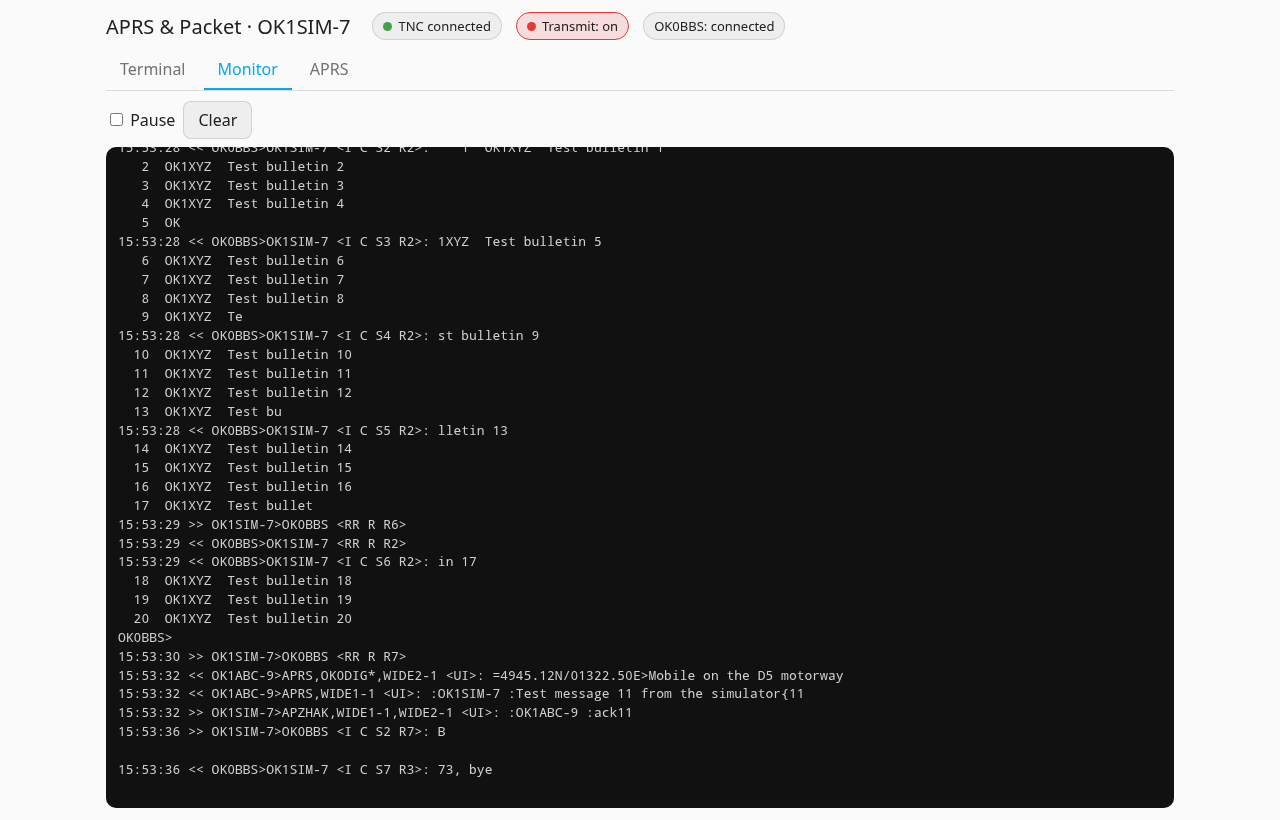
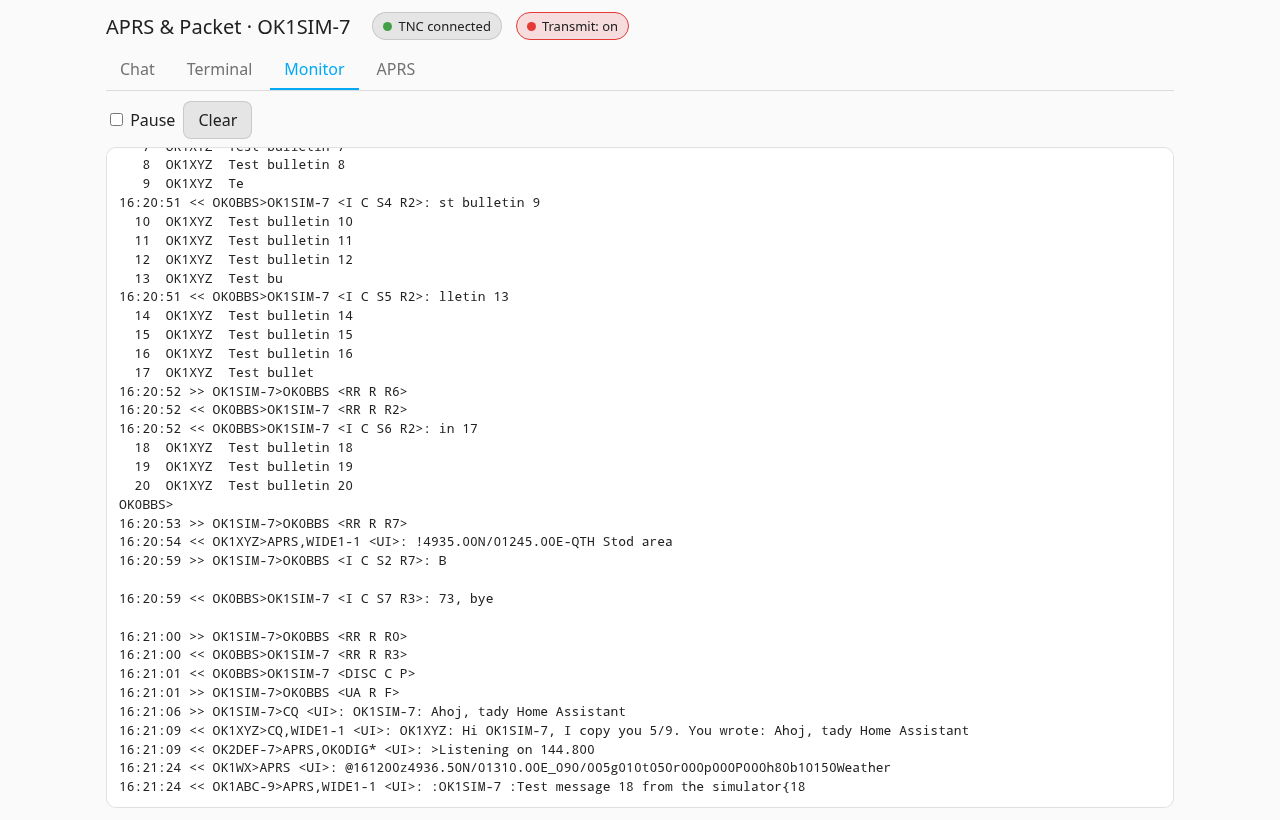
Release 0.2.1: panel follows the Home Assistant theme; new light and dark screenshots

diff --git a/custom_components/aprs_kiss/frontend/aprs-kiss-panel.js b/custom_components/aprs_kiss/frontend/aprs-kiss-panel.js
@@ -168,7 +168,7 @@ class AprsKissPanel extends HTMLElement {
         button.btn { font: inherit; padding: 7px 14px; border-radius: 8px; border: none; background: var(--primary-color); color: var(--text-primary-color, #fff); cursor: pointer; }
         button.btn.secondary { background: var(--secondary-background-color); color: var(--primary-text-color); border: 1px solid var(--divider-color); }
         button.btn:disabled { opacity: 0.5; cursor: default; }
-        pre { flex: 1; min-height: 200px; margin: 0; overflow: auto; padding: 10px 12px; border-radius: 10px; background: #111; color: #d0d0d0; font: 13px/1.45 ui-monospace, 'DejaVu Sans Mono', Menlo, Consolas, monospace; white-space: pre-wrap; word-break: break-word; }
+        pre { flex: 1; min-height: 200px; margin: 0; overflow: auto; padding: 10px 12px; border-radius: 10px; background: var(--code-editor-background-color, var(--card-background-color)); color: var(--primary-text-color); border: 1px solid var(--divider-color); font: 13px/1.45 ui-monospace, 'DejaVu Sans Mono', Menlo, Consolas, monospace; white-space: pre-wrap; word-break: break-word; }
         .chatlog { flex: 1; min-height: 200px; overflow: auto; padding: 8px 10px; border-radius: 10px; background: var(--card-background-color); border: 1px solid var(--divider-color); font-size: 14px; }
         .chatline { padding: 3px 0; line-height: 1.4; word-break: break-word; }
         .chatline .t { color: var(--secondary-text-color); font-size: 12px; margin-right: 6px; font-variant-numeric: tabular-nums; }
@@ -176,7 +176,7 @@ class AprsKissPanel extends HTMLElement {
         .chatline.out .c { color: var(--primary-color); }
         .chatline.aprs { color: var(--secondary-text-color); font-size: 13px; }
         .chatline .to { color: var(--secondary-text-color); font-size: 12px; margin-right: 4px; }
-        pre .tx { color: #4fc3f7; } pre .st { color: #ffb74d; font-style: italic; } pre .out { color: #81c784; }
+        pre .tx { color: var(--primary-color); } pre .st { color: var(--warning-color, #ef6c00); font-style: italic; } pre .out { color: var(--success-color, #2e7d32); }
         .line { display: flex; gap: 8px; } .line input { flex: 1; font-family: ui-monospace, monospace; }
         .hint { font-size: 13px; color: var(--secondary-text-color); }
         .error { color: var(--error-color, #db4437); font-size: 13px; }
@@ -192,7 +192,7 @@ class AprsKissPanel extends HTMLElement {
         th { color: var(--secondary-text-color); font-weight: 500; }
         .map { height: 380px; border-radius: 10px; overflow: hidden; }
         .leaflet-container { background: var(--secondary-background-color); font: inherit; }
-        .leaflet-tooltip.call-label { background: rgba(0,0,0,.65); color: #fff; border: none; box-shadow: none; padding: 1px 5px; font-size: 11px; }
+        .leaflet-tooltip.call-label { background: var(--card-background-color); color: var(--primary-text-color); border: 1px solid var(--divider-color) !important; box-shadow: 0 1px 3px rgba(0,0,0,.3); padding: 1px 5px; font-size: 11px; }
         .wx { display: inline-block; }
         td:nth-child(-n+2) { white-space: nowrap; }
         .call-label::before { display: none; }

diff --git a/README.md b/README.md
@@ -15,22 +15,24 @@ It was built and tested for a **Quansheng UV-K1 / UV-K5 V3** running the **F4HWN
 
 <table>
 <tr>
+<td width="50%"><picture><source media="(prefers-color-scheme: light)" srcset="assets/chat-light.png"><img src="assets/chat.png" alt="Chat window"></picture></td>
 <td width="50%"><picture><source media="(prefers-color-scheme: light)" srcset="assets/terminal-light.png"><img src="assets/terminal.png" alt="Packet radio terminal connected to a BBS"></picture></td>
-<td width="50%"><picture><source media="(prefers-color-scheme: light)" srcset="assets/aprs-light.png"><img src="assets/aprs.png" alt="APRS map, messages and stations heard with weather"></picture></td>
 </tr>
 <tr>
+<td><b>Chat</b>: type and press Enter; everyone's text on the frequency below.</td>
 <td><b>Terminal</b>: connected to a BBS, commands and answers.</td>
+</tr>
+<tr>
+<td><picture><source media="(prefers-color-scheme: light)" srcset="assets/aprs-light.png"><img src="assets/aprs.png" alt="APRS map, messages and stations heard with weather"></picture></td>
+<td><picture><source media="(prefers-color-scheme: light)" srcset="assets/monitor-light.png"><img src="assets/monitor.png" alt="Frame monitor"></picture></td>
+</tr>
+<tr>
 <td><b>APRS</b>: map of the stations heard, messages with their acknowledgement, weather.</td>
-</tr>
-<tr>
-<td colspan="2"><picture><source media="(prefers-color-scheme: light)" srcset="assets/monitor-light.png"><img src="assets/monitor.png" alt="Frame monitor"></picture></td>
-</tr>
-<tr>
-<td colspan="2"><b>Monitor</b>: every frame, received (&lt;&lt;) and sent (&gt;&gt;), with AX.25 control fields.</td>
+<td><b>Monitor</b>: every frame, received (&lt;&lt;) and sent (&gt;&gt;), with AX.25 control fields.</td>
 </tr>
 </table>
 
-*The screenshots were taken with the built-in simulator (see [Testing without a radio](#testing-without-a-radio)); the stations are made up.*
+*The panel follows Home Assistant's theme, light or dark; the screenshots follow your GitHub theme. They were taken with the built-in simulator (see [Testing without a radio](#testing-without-a-radio)); the stations are made up.*
 
 ## Contents
 

diff --git a/CHANGELOG.md b/CHANGELOG.md
@@ -1,5 +1,10 @@
 # Changelog
 
+## [0.2.1] - 2026-11-16
+
+- The whole panel follows Home Assistant's theme, light or dark: the terminal, the monitor and the map labels no longer have fixed dark colours.
+- New screenshots of all four tabs, light and dark (the README shows the one matching your GitHub theme).
+
 ## [0.2.0] - 2026-11-16
 
 - Everything the panel uses comes from Home Assistant: Leaflet is bundled with the integration, and map tiles come through Home Assistant's tile proxy (`/api/map_tiles`, HA 2026.11+) instead of the browser fetching CDN files and OpenStreetMap tiles itself (which OpenStreetMap blocked).
